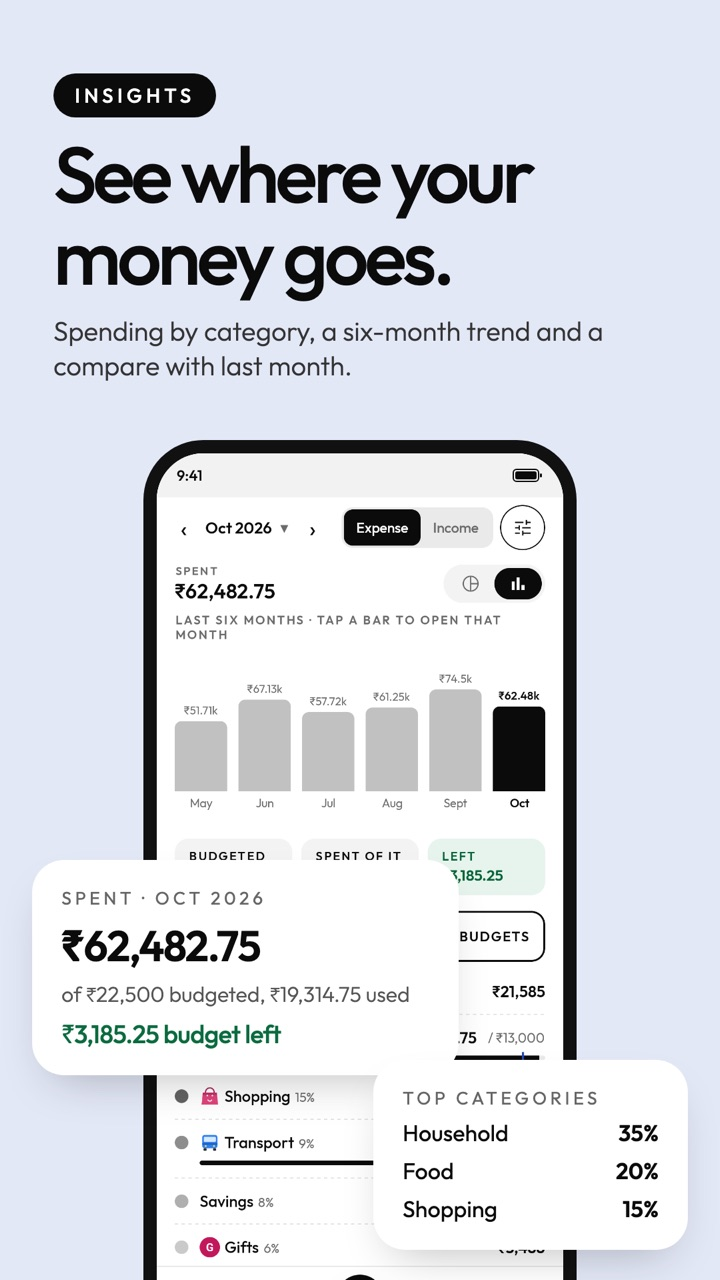
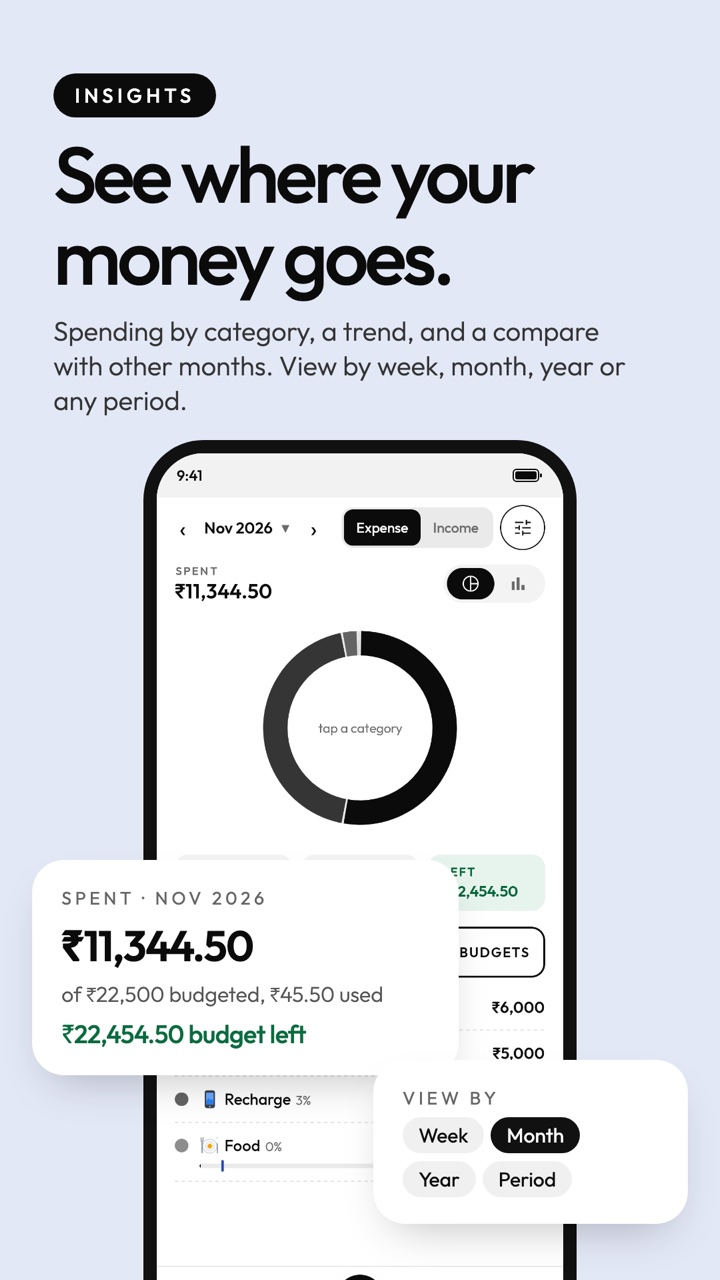
Gallery: Account docs and Bulk edit cards; Insights and Card statements pictures retaken from the Demo app (1.8.0)

diff --git a/index.html b/index.html
@@ -28,7 +28,7 @@
 <link rel="preload" href="fonts/outfit-500.woff2" as="font" type="font/woff2" crossorigin>
 <link rel="preload" href="screens/01-transactions-daily.webp" as="image" type="image/webp" fetchpriority="high">
 <script type="application/ld+json">
-{"@context":"https://schema.org","@type":"SoftwareApplication","name":"Money SpendOptic","applicationCategory":"FinanceApplication","operatingSystem":"Android","description":"A private money manager for Android: income, expenses and transfers, budgets, repeats and installments, search, Google Drive backup and a computer view.","inLanguage":["en","hi","mr"],"url":"https://www.moneyspendoptic.com/","image":"https://www.moneyspendoptic.com/logo.png","downloadUrl":"https://play.google.com/store/apps/details?id=com.moneyspendoptic","installUrl":"https://play.google.com/store/apps/details?id=com.moneyspendoptic","screenshot":["https://www.moneyspendoptic.com/features/01-daily-transactions.jpg","https://www.moneyspendoptic.com/features/02-insights.jpg","https://www.moneyspendoptic.com/features/03-smart-notes.jpg","https://www.moneyspendoptic.com/features/04-add-several.jpg","https://www.moneyspendoptic.com/features/04b-grouped-entries.jpg","https://www.moneyspendoptic.com/features/05-tags.jpg","https://www.moneyspendoptic.com/features/06-repeat.jpg","https://www.moneyspendoptic.com/features/07-installments.jpg","https://www.moneyspendoptic.com/features/08-budgets.jpg","https://www.moneyspendoptic.com/features/09-net-worth.jpg","https://www.moneyspendoptic.com/features/10-card-statements.jpg","https://www.moneyspendoptic.com/features/11-accounts-and-groups.jpg","https://www.moneyspendoptic.com/features/24-account-history.jpg","https://www.moneyspendoptic.com/features/12-categories.jpg","https://www.moneyspendoptic.com/features/23-category-icons.jpg","https://www.moneyspendoptic.com/features/13-notes.jpg","https://www.moneyspendoptic.com/features/14-search-and-filters.jpg","https://www.moneyspendoptic.com/features/15-backup-and-privacy.jpg","https://www.moneyspendoptic.com/features/16-reminders.jpg","https://www.moneyspendoptic.com/features/17-assets-liabilities.jpg","https://www.moneyspendoptic.com/features/18-loans.jpg","https://www.moneyspendoptic.com/features/19-card-year.jpg","https://www.moneyspendoptic.com/features/20-investments.jpg","https://www.moneyspendoptic.com/features/21-excel-import.jpg","https://www.moneyspendoptic.com/features/22-excel-export.jpg","https://www.moneyspendoptic.com/features/25-photos.jpg"],"offers":{"@type":"Offer","price":"0","priceCurrency":"INR"}}
+{"@context":"https://schema.org","@type":"SoftwareApplication","name":"Money SpendOptic","applicationCategory":"FinanceApplication","operatingSystem":"Android","description":"A private money manager for Android: income, expenses and transfers, budgets, repeats and installments, search, Google Drive backup and a computer view.","inLanguage":["en","hi","mr"],"url":"https://www.moneyspendoptic.com/","image":"https://www.moneyspendoptic.com/logo.png","downloadUrl":"https://play.google.com/store/apps/details?id=com.moneyspendoptic","installUrl":"https://play.google.com/store/apps/details?id=com.moneyspendoptic","screenshot":["https://www.moneyspendoptic.com/features/01-daily-transactions.jpg","https://www.moneyspendoptic.com/features/02-insights.jpg","https://www.moneyspendoptic.com/features/03-smart-notes.jpg","https://www.moneyspendoptic.com/features/04-add-several.jpg","https://www.moneyspendoptic.com/features/04b-grouped-entries.jpg","https://www.moneyspendoptic.com/features/05-tags.jpg","https://www.moneyspendoptic.com/features/06-repeat.jpg","https://www.moneyspendoptic.com/features/07-installments.jpg","https://www.moneyspendoptic.com/features/08-budgets.jpg","https://www.moneyspendoptic.com/features/09-net-worth.jpg","https://www.moneyspendoptic.com/features/10-card-statements.jpg","https://www.moneyspendoptic.com/features/11-accounts-and-groups.jpg","https://www.moneyspendoptic.com/features/24-account-history.jpg","https://www.moneyspendoptic.com/features/12-categories.jpg","https://www.moneyspendoptic.com/features/23-category-icons.jpg","https://www.moneyspendoptic.com/features/13-notes.jpg","https://www.moneyspendoptic.com/features/14-search-and-filters.jpg","https://www.moneyspendoptic.com/features/15-backup-and-privacy.jpg","https://www.moneyspendoptic.com/features/16-reminders.jpg","https://www.moneyspendoptic.com/features/17-assets-liabilities.jpg","https://www.moneyspendoptic.com/features/18-loans.jpg","https://www.moneyspendoptic.com/features/19-card-year.jpg","https://www.moneyspendoptic.com/features/20-investments.jpg","https://www.moneyspendoptic.com/features/21-excel-import.jpg","https://www.moneyspendoptic.com/features/22-excel-export.jpg","https://www.moneyspendoptic.com/features/25-photos.jpg","https://www.moneyspendoptic.com/features/26-account-docs.jpg","https://www.moneyspendoptic.com/features/27-bulk-edit.jpg"],"offers":{"@type":"Offer","price":"0","priceCurrency":"INR"}}
 </script>
 <script type="application/ld+json">
 {"@context":"https://schema.org","@graph":[{"@type":"Organization","@id":"https://www.moneyspendoptic.com/#org","name":"Money SpendOptic","url":"https://www.moneyspendoptic.com/","logo":"https://www.moneyspendoptic.com/logo.png","email":"moneyspendoptic@gmail.com"},{"@type":"WebSite","name":"Money SpendOptic","url":"https://www.moneyspendoptic.com/","publisher":{"@id":"https://www.moneyspendoptic.com/#org"}}]}
@@ -358,7 +358,7 @@ footer .data{max-width:1240px;margin:0 auto 18px;font-size:13px;line-height:1.6;
 <div class="gal-wrap">
 <ul class="gal" id="gal" tabindex="0" aria-label="Feature pictures">
 <li><img src="features/01-daily-transactions.jpg" width="300" height="533" alt="Daily transactions: Every entry by day, with the month's income, expense and total on top." loading="lazy" decoding="async"><h3>Daily transactions</h3><p>Every entry by day, with the month's income, expense and total on top.</p></li>
-<li><img src="features/02-insights.jpg" width="300" height="533" alt="Insights: Spending by category or month bars, a six-month trend and a compare with last month." loading="lazy" decoding="async"><h3>Insights</h3><p>Spending by category or month bars, a six-month trend and a compare with last month.</p></li>
+<li><img src="features/02-insights.jpg" width="300" height="533" alt="Insights: Spending by category or month bars, a trend and a compare with other months. View by week, month, year or any period." loading="lazy" decoding="async"><h3>Insights</h3><p>Spending by category or month bars, a trend and a compare with other months. View by week, month, year or any period.</p></li>
 <li><img src="features/03-smart-notes.jpg" width="300" height="533" alt="Notes that fill themselves: Start typing a note and pick a past entry - category and account fill in for you." loading="lazy" decoding="async"><h3>Notes that fill themselves</h3><p>Start typing a note and pick a past entry - category and account fill in for you.</p></li>
 <li><img src="features/04-add-several.jpg" width="300" height="533" alt="Add several: One account, many rows: enter a whole bill or a trip in one go." loading="lazy" decoding="async"><h3>Add several</h3><p>One account, many rows: enter a whole bill or a trip in one go.</p></li>
 <li><img src="features/04b-grouped-entries.jpg" width="300" height="533" alt="Grouped entries: Entries saved together stay linked: tap to see the others and open one." loading="lazy" decoding="async"><h3>Grouped entries</h3><p>Entries saved together stay linked: tap to see the others and open one.</p></li>
@@ -382,6 +382,8 @@ footer .data{max-width:1240px;margin:0 auto 18px;font-size:13px;line-height:1.6;
 <li><img src="features/21-excel-import.jpg" width="300" height="533" alt="Excel import: Bring entries in from an Excel or CSV sheet, step by step: file, columns, review and done. Account numbers tell same-name accounts apart, and rows already in the app are skipped." loading="lazy" decoding="async"><h3>Excel import</h3><p>Bring entries in from an Excel or CSV sheet, step by step: file, columns, review and done. Account numbers tell same-name accounts apart, and rows already in the app are skipped.</p></li>
 <li><img src="features/22-excel-export.jpg" width="300" height="533" alt="Excel export: Export to Excel or a PDF statement (Premium), for all accounts or just one, with the dates you choose. Pick what to include; Excel can be one sheet or one a month." loading="lazy" decoding="async"><h3>Excel export</h3><p>Export to Excel or a PDF statement (Premium), for all accounts or just one, with the dates you choose. Pick what to include; Excel can be one sheet or one a month.</p></li>
 <li><img src="features/25-photos.jpg" width="300" height="533" alt="Photos and files: Export photos and attachments with year and month folders, and clean up files no entry uses." loading="lazy" decoding="async"><h3>Photos and files</h3><p>Export photos and attachments with year and month folders, and clean up files no entry uses.</p></li>
+<li><img src="features/26-account-docs.jpg" width="300" height="533" alt="Account docs: Keep PDFs, photos and notes on the account they belong to. They are part of your backup." loading="lazy" decoding="async"><h3>Account docs</h3><p>Keep PDFs, photos and notes on the account they belong to. They are part of your backup.</p></li>
+<li><img src="features/27-bulk-edit.jpg" width="300" height="533" alt="Bulk edit: Select entries in Search, then change their category, account, date, note or tags together." loading="lazy" decoding="async"><h3>Bulk edit</h3><p>Select entries in Search, then change their category, account, date, note or tags together.</p></li>
 <li><img src="features/15-backup-and-privacy.jpg" width="300" height="533" alt="Backup and privacy: Backup file, your own Google Drive and Excel import. Data stays on your phone." loading="lazy" decoding="async"><h3>Backup and privacy</h3><p>Backup file, your own Google Drive and Excel import. Data stays on your phone.</p></li>
 </ul>
 <div class="ctrl gal-ctrl">
